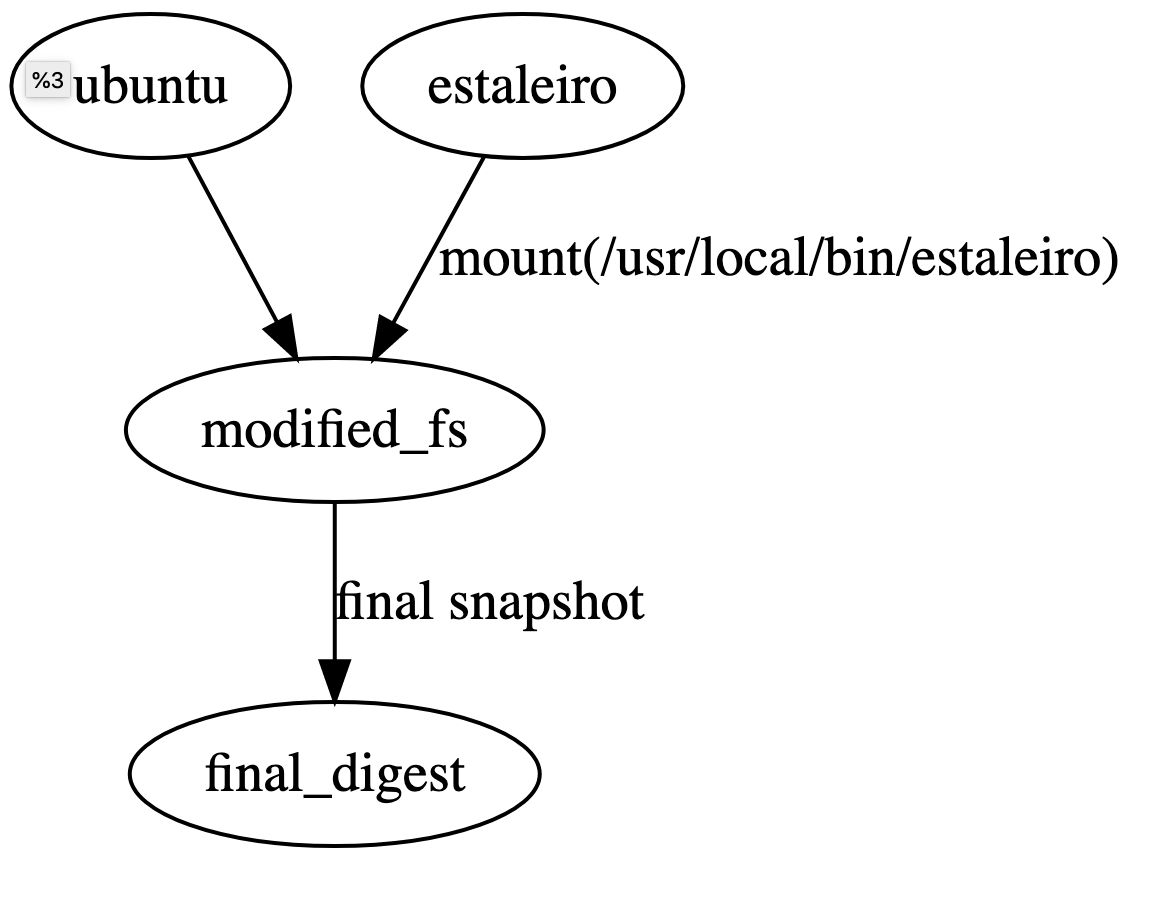
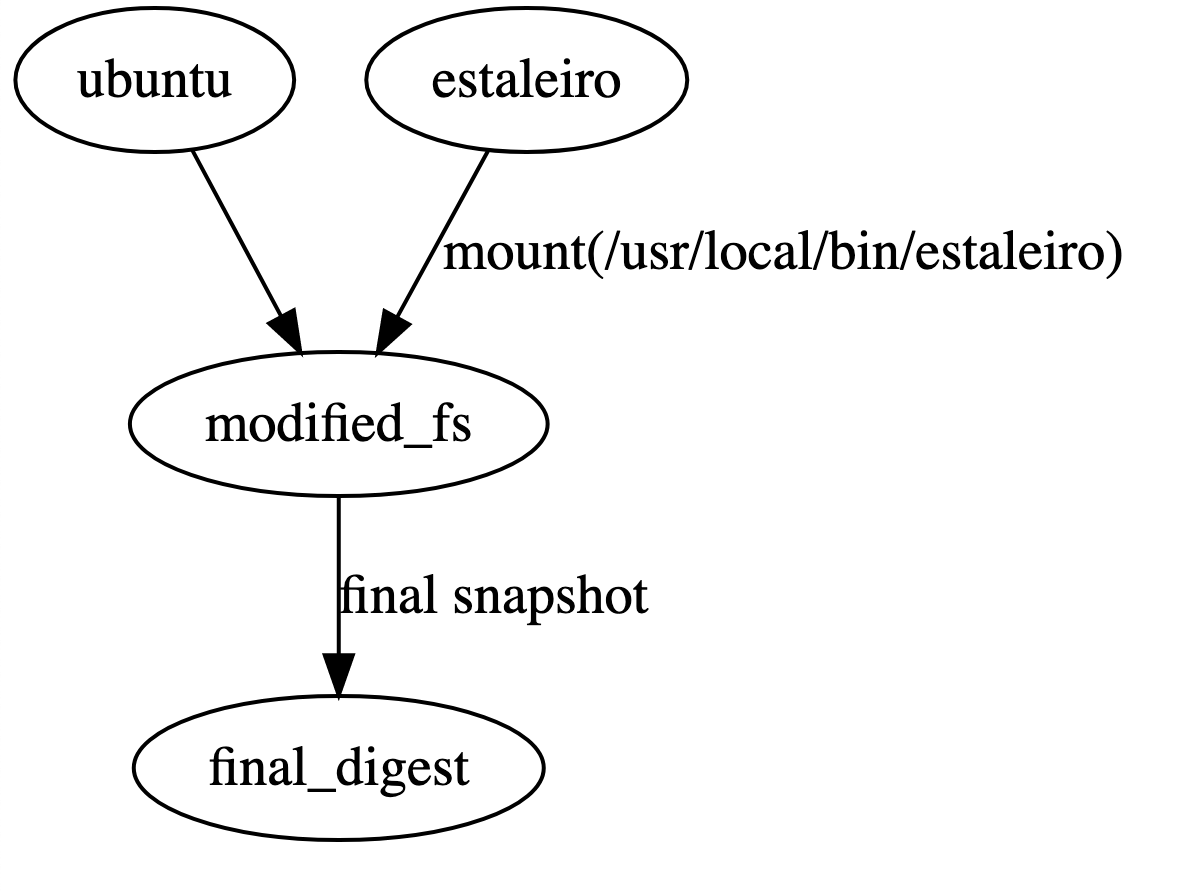
talk: wip

diff --git a/docs/talk/README.md b/docs/talk/README.md
@@ -754,7 +754,7 @@ As that all boils down to a directed acyclic graph (DAG), we can represent that
 as such:
 
 
-![](./graph.svg)
+![](./assets/simplified-graph-minimal.png)
 
 
 ## installing packages
